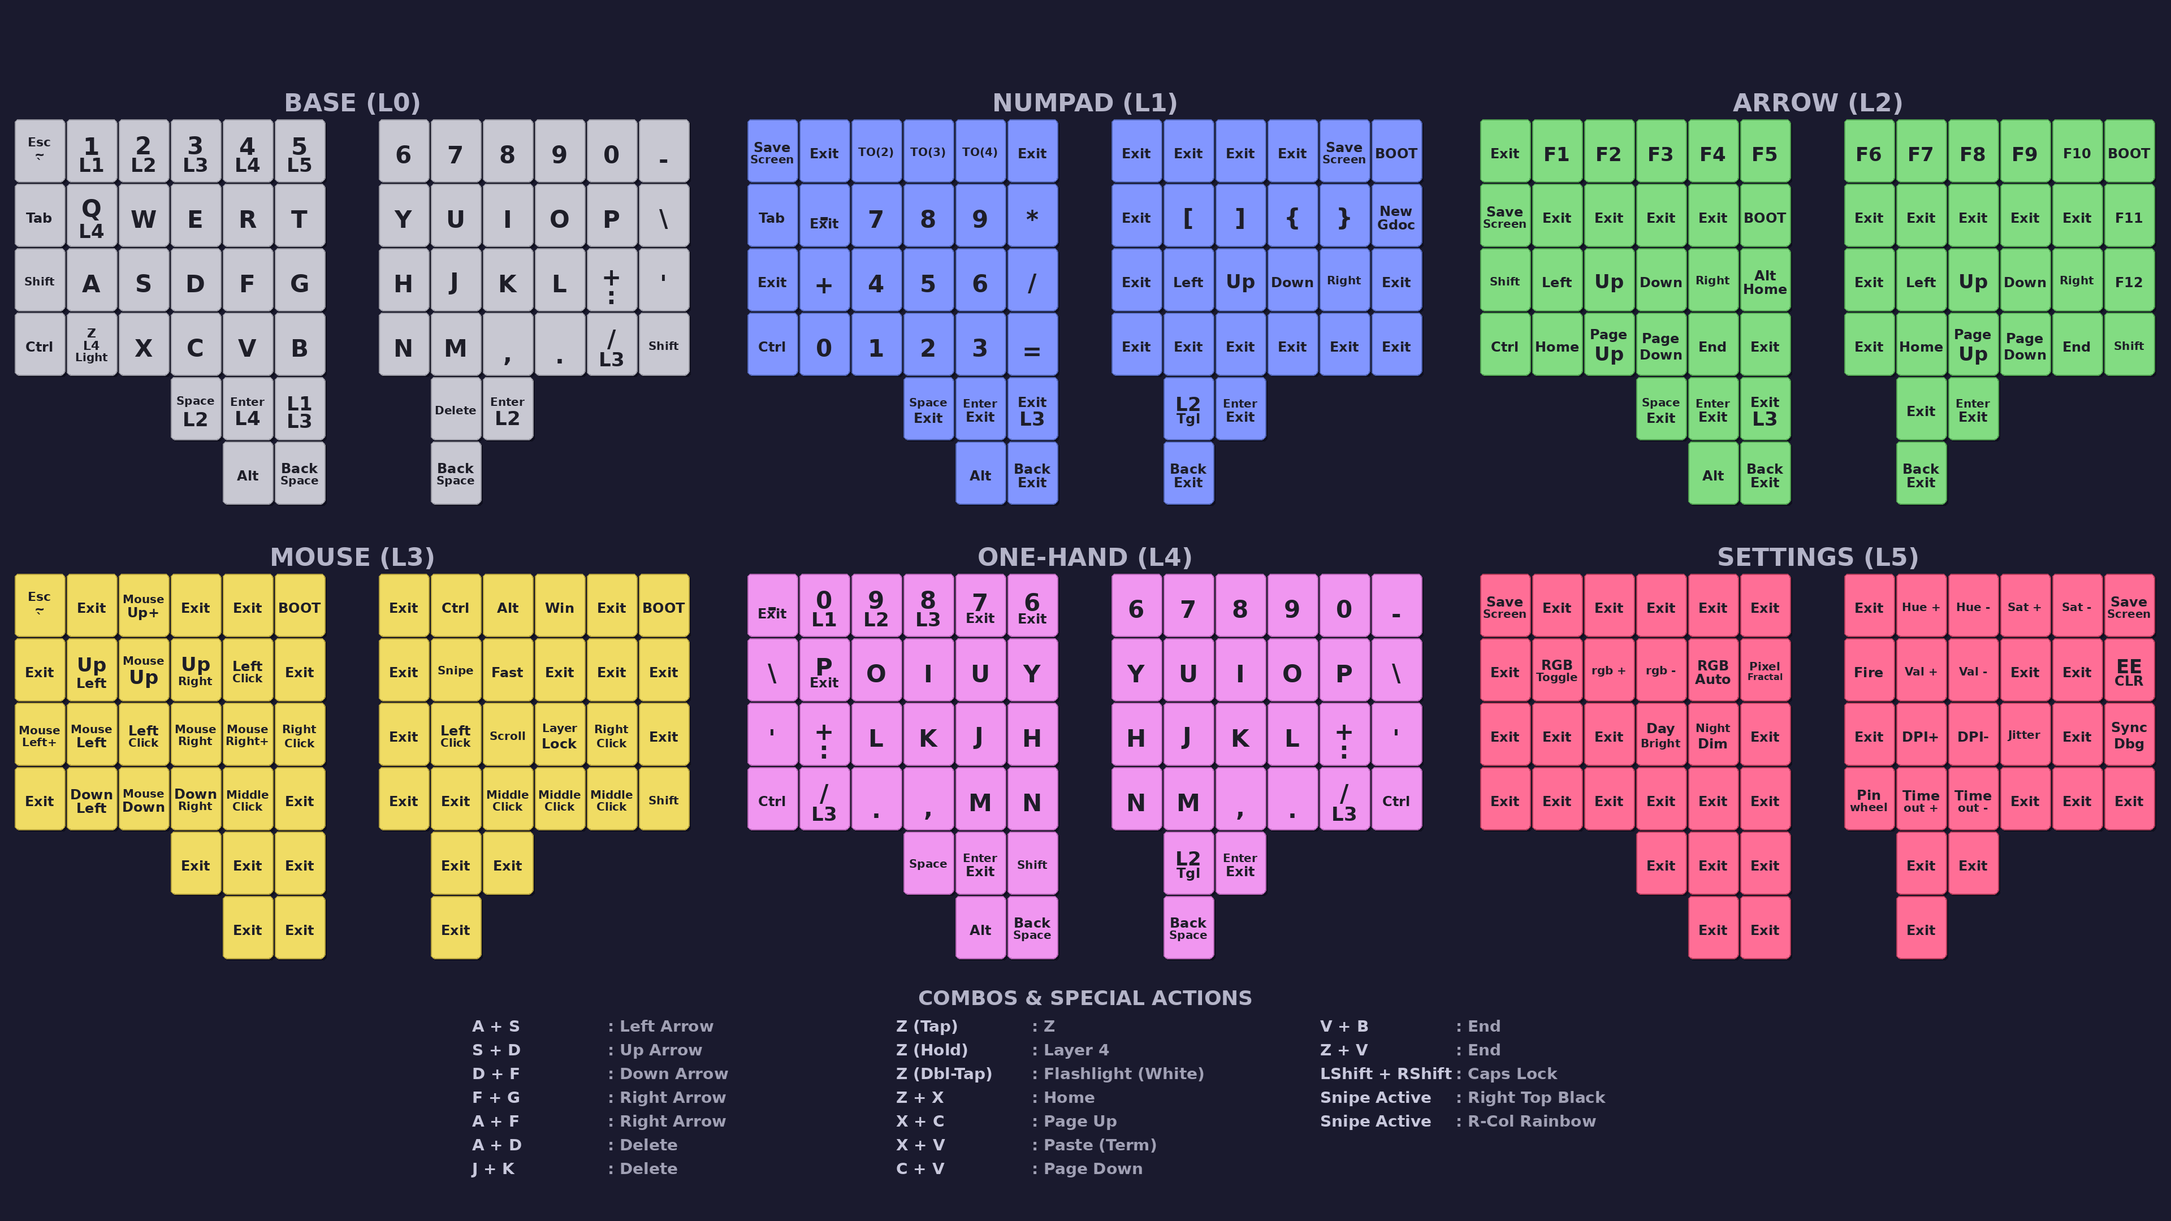
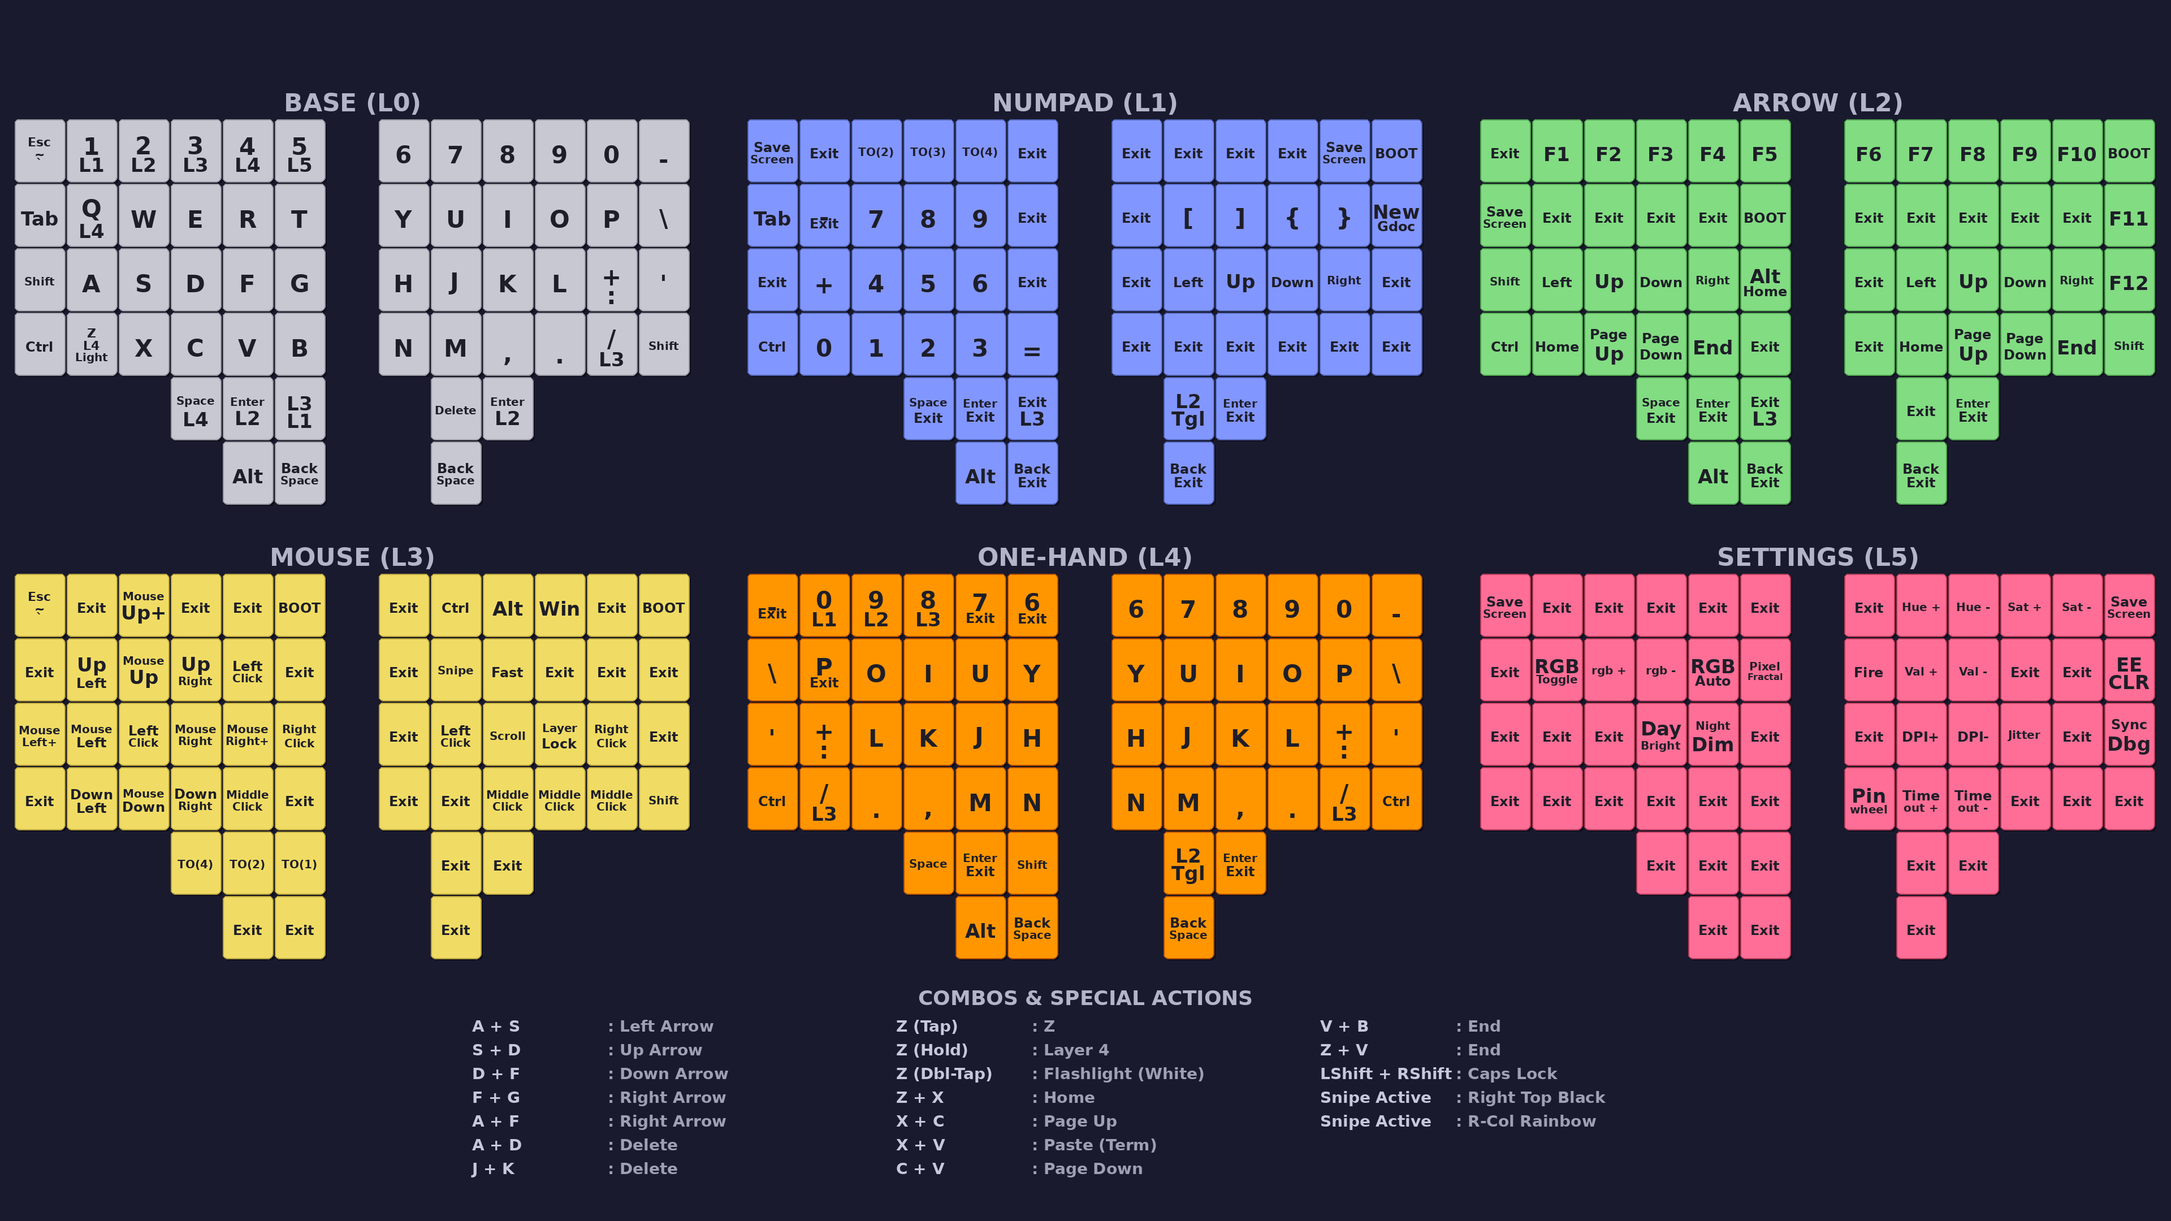
Update layout: swap L0 thumbs (Space/L4, Enter/L2), toggle L1/L3 logic, tune mouse accel

diff --git a/keymap/keymap.c b/keymap/keymap.c
@@ -78,6 +78,7 @@ enum custom_keycodes {
   KC_ENT_TG2,
   KC_ENT_TG4,
   KC_SPC_TG2,
+  KC_SPC_TG4,
   KC_PMNS_TG4,
   KC_MINS_TG4,
   KC_F12_EXIT,
@@ -592,6 +593,9 @@ static bool ent_tg2_triggered = false;
 static uint16_t spc_tg2_timer = 0;
 static bool spc_tg2_held = false;
 static bool spc_tg2_triggered = false;
+static uint16_t spc_tg4_timer = 0;
+static bool spc_tg4_held = false;
+static bool spc_tg4_triggered = false;
 static uint16_t pmns_tg4_timer = 0;
 static bool pmns_tg4_held = false;
 static bool pmns_tg4_triggered = false;
@@ -788,7 +792,7 @@ bool process_record_user(uint16_t keycode, keyrecord_t *record) {
     return false;
   case KC_MS_FAST_UP:
     if (record->event.pressed) {
-      if (!is_sniping_active) tap_code(MS_ACL2); // Speed up only if not sniping
+      if (!is_sniping_active) tap_code(MS_ACL1); // Speed up only if not sniping
       register_code(MS_UP);
     } else {
       unregister_code(MS_UP);
@@ -797,7 +801,7 @@ bool process_record_user(uint16_t keycode, keyrecord_t *record) {
     return false;
   case KC_MS_FAST_DOWN:
     if (record->event.pressed) {
-      if (!is_sniping_active) tap_code(MS_ACL2);
+      if (!is_sniping_active) tap_code(MS_ACL1);
       register_code(MS_DOWN);
     } else {
       unregister_code(MS_DOWN);
@@ -806,7 +810,7 @@ bool process_record_user(uint16_t keycode, keyrecord_t *record) {
     return false;
   case KC_MS_FAST_LEFT:
     if (record->event.pressed) {
-      if (!is_sniping_active) tap_code(MS_ACL2);
+      if (!is_sniping_active) tap_code(MS_ACL1);
       register_code(MS_LEFT);
     } else {
       unregister_code(MS_LEFT);
@@ -815,7 +819,7 @@ bool process_record_user(uint16_t keycode, keyrecord_t *record) {
     return false;
   case KC_MS_FAST_RIGHT:
     if (record->event.pressed) {
-      if (!is_sniping_active) tap_code(MS_ACL2);
+      if (!is_sniping_active) tap_code(MS_ACL1);
       register_code(MS_RGHT);
     } else {
       unregister_code(MS_RGHT);
@@ -947,14 +951,17 @@ bool process_record_user(uint16_t keycode, keyrecord_t *record) {
       l1_tap_timer = timer_read();
     } else {
       l1_held = false;
-      // If released quickly (Tap) -> Toggle L1
+      // If released quickly (Tap) -> Toggle L3 (Mouse)
       if (!l1_triggered) {
-        if (get_highest_layer(layer_state) > 0) {
+        if (get_highest_layer(layer_state) == 3) {
+          layer_change_reason = "L_TG1 (Tap): Toggle L3 (OFF)";
+          layer_off(3);
+        } else if (get_highest_layer(layer_state) > 0) {
           layer_change_reason = "L_TG1 (Tap): L0 (Reset)";
           layer_move(0);
         } else {
-          layer_change_reason = "L_TG1 (Tap): Toggle L1 (Numpad)";
-          layer_invert(1);
+          layer_change_reason = "L_TG1 (Tap): Toggle L3 (Mouse)";
+          layer_on(3);
         }
       }
       rgb_matrix_indicators_user();
@@ -1387,6 +1394,30 @@ bool process_record_user(uint16_t keycode, keyrecord_t *record) {
       }
     }
     return false;
+  case KC_SPC_TG4:
+    if (record->event.pressed) {
+      uint32_t now = timer_read32();
+      uint32_t sec = now / 1000;
+      uint32_t ms = now % 1000;
+      uprintf("[%lu.%03lu] KC_SPC_TG4 Pressed\n", sec, ms);
+      spc_tg4_held = true;
+      spc_tg4_triggered = false;
+      spc_tg4_timer = timer_read();
+    } else {
+      uint32_t now = timer_read32();
+      uint32_t sec = now / 1000;
+      uint32_t ms = now % 1000;
+      uprintf("[%lu.%03lu] KC_SPC_TG4 Released. Duration: %u ms. Held: %d, "
+              "Triggered: %d. Action: %s\n",
+              sec, ms, timer_elapsed(spc_tg4_timer), spc_tg4_held,
+              spc_tg4_triggered,
+              (!spc_tg4_triggered) ? "Tap (Space)" : "None (Handled by Timer)");
+      spc_tg4_held = false;
+      if (!spc_tg4_triggered) {
+        tap_code(KC_SPC);
+      }
+    }
+    return false;
   case KC_PMNS_TG4:
     if (record->event.pressed) {
       pmns_tg4_held = true;
@@ -1557,19 +1588,18 @@ void post_process_record_user(uint16_t keycode, keyrecord_t *record) {
 
 const uint16_t PROGMEM keymaps[][MATRIX_ROWS][MATRIX_COLS] = {
     [0] =
-        LAYOUT(QK_GESC, KC_1_TG1, KC_2_TG2, KC_3_TG3, KC_4_TG4, KC_5_TG5, KC_6, KC_7, KC_8, KC_9, KC_0, KC_MINS,
-               KC_TAB, KC_Q_TG4, KC_W, KC_E, KC_R, KC_T, KC_Y, KC_U, KC_I, KC_O, KC_P, KC_BSLS,
-               KC_LSFT, KC_A, KC_S, KC_D, KC_F, KC_G, KC_H, KC_J, KC_K, KC_L, KC_PLUS_COLON, KC_QUOT,
-               KC_LCTL, TD(TD_Z_LAYER), KC_X, KC_C, KC_V, KC_B, KC_N, KC_M, KC_COMM, KC_DOT, LT(3, KC_SLSH), KC_RSFT,
-               KC_SPC_TG2, KC_ENT_TG4, KC_L_TG1, KC_DEL, KC_ENT_TG2,
-               KC_LALT, KC_BSPC, KC_BSPC),
-               //QK_BOOT, KC_PSCR  , KC_SET_LEFT, KC_SET_RIGHT, KC_EXIT, KC_EXIT, KC_SET_LEFT, KC_SET_RIGHT, KC_EXIT, KC_EXIT   , KC_PSCR   , QK_BOOT,
+        LAYOUT(QK_GESC, KC_1_TG1, KC_2_TG2, KC_3_TG3, KC_4_TG4, KC_5_TG5,   KC_6, KC_7, KC_8, KC_9, KC_0, KC_MINS,
+               KC_TAB , KC_Q_TG4, KC_W    , KC_E    , KC_R    , KC_T    ,   KC_Y, KC_U, KC_I, KC_O, KC_P, KC_BSLS,
+               KC_LSFT, KC_A    , KC_S    , KC_D    , KC_F    , KC_G    ,   KC_H, KC_J, KC_K, KC_L, KC_PLUS_COLON, KC_QUOT,
+               KC_LCTL, TD(TD_Z_LAYER), KC_X, KC_C  , KC_V    , KC_B    ,   KC_N, KC_M, KC_COMM, KC_DOT, LT(3, KC_SLSH), KC_RSFT,
+                                        KC_SPC_TG4, KC_ENT_TG2, KC_L_TG1,   KC_DEL, KC_ENT_TG2,
+                                                        KC_LALT, KC_BSPC,   KC_BSPC),
     [1] = LAYOUT(KC_PSCR, KC_EXIT    , TO(2), TO(3), TO(4), KC_EXIT,   KC_EXIT, KC_EXIT, KC_EXIT, KC_EXIT   , KC_PSCR   , QK_BOOT,
-                 KC_TAB , KC_MINS_TO0, KC_7 , KC_8 , KC_9 , S(KC_8),   KC_EXIT  , KC_LBRC  , KC_RBRC  , S(KC_LBRC), S(KC_RBRC), HYPR(KC_N),
-                 KC_EXIT, S(KC_EQL)  , KC_4 , KC_5 , KC_6 , KC_SLSH,   KC_EXIT  , KC_LEFT  , KC_UP    , KC_DOWN   , KC_RGHT   , KC_EXIT,
-                 KC_LCTL, KC_0       , KC_1 , KC_2 , KC_3 , KC_EQL,    KC_EXIT  , KC_EXIT  , KC_EXIT  , KC_EXIT   , KC_EXIT   , KC_EXIT,
-                 KC_SPC_EXIT, KC_ENT_EXIT, KC_L_TG1, KC_R_TG2, KC_ENT_EXIT,
-                 KC_LALT, KC_BSPC_EXIT, KC_BSPC_EXIT),
+                 KC_TAB , KC_MINS_TO0, KC_7 , KC_8 , KC_9 , KC_EXIT,   KC_EXIT, KC_LBRC, KC_RBRC, S(KC_LBRC), S(KC_RBRC), HYPR(KC_N),
+                 KC_EXIT, S(KC_EQL)  , KC_4 , KC_5 , KC_6 , KC_EXIT,   KC_EXIT, KC_LEFT, KC_UP  , KC_DOWN   , KC_RGHT   , KC_EXIT,
+                 KC_LCTL, KC_0       , KC_1 , KC_2 , KC_3 , KC_EQL ,   KC_EXIT, KC_EXIT, KC_EXIT, KC_EXIT   , KC_EXIT   , KC_EXIT,
+                                 KC_SPC_EXIT, KC_ENT_EXIT, KC_L_TG1,   KC_R_TG2, KC_ENT_EXIT,
+                                              KC_LALT, KC_BSPC_EXIT,   KC_BSPC_EXIT),
     [2] = LAYOUT(KC_EXIT, KC_F1  , KC_F2  , KC_F3  , KC_F4  , KC_F5        ,   KC_F6      , KC_F7  , KC_F8  , KC_F9  , KC_F10 , QK_BOOT,
                  KC_PSCR, KC_EXIT, KC_EXIT, KC_EXIT, KC_EXIT, QK_BOOT      ,   KC_EXIT    , KC_EXIT, KC_EXIT, KC_EXIT, KC_EXIT, KC_F11,
                  KC_LSFT, KC_LEFT, KC_UP  , KC_DOWN, KC_RGHT, LALT(KC_HOME),   KC_EXIT    , KC_LEFT, KC_UP  , KC_DOWN, KC_RGHT, KC_F12,
@@ -1580,22 +1610,21 @@ const uint16_t PROGMEM keymaps[][MATRIX_ROWS][MATRIX_COLS] = {
                  KC_EXIT, KC_MS_DIAG_UL, MS_UP, KC_MS_DIAG_UR, MS_BTN1, KC_EXIT,   KC_EXIT, KC_SNIPE, KC_FAST, KC_EXIT, KC_EXIT, KC_EXIT,
                  KC_MS_FAST_LEFT, MS_LEFT, MS_BTN1 , MS_RGHT , KC_MS_FAST_RIGHT,   MS_BTN2, KC_EXIT , MS_BTN1, DRGSCRL, KC_MOUSE_LOCK, MS_BTN2, KC_EXIT,
                  KC_EXIT, KC_MS_DIAG_DL  , MS_DOWN , KC_MS_DIAG_DR, MS_BTN3    ,   KC_EXIT, KC_EXIT , KC_EXIT, MS_BTN3, MS_BTN3, MS_BTN3, KC_RSFT,
-                                          KC_EXIT, KC_EXIT, KC_EXIT,   KC_EXIT, KC_EXIT,
+                                                            TO(4), TO(2), TO(1),   KC_EXIT, KC_EXIT,
                                                                KC_EXIT, KC_EXIT,   KC_EXIT),
-    [4] = LAYOUT(KC_MINS_TO0, KC_0_TG1, KC_9_TG2, KC_8_TG3  , KC_7_TO0, KC_6_TO0,   KC_6, KC_7, KC_8, KC_9, KC_0, KC_MINS,
-                 KC_BSLS    , KC_P_TO0, KC_O    , KC_I      , KC_U    , KC_Y    ,   KC_Y, KC_U, KC_I, KC_O, KC_P, KC_BSLS,
-                 KC_QUOT, KC_PLUS_COLON, KC_L   , KC_K      , KC_J    , KC_H    ,   KC_H, KC_J, KC_K, KC_L, KC_PLUS_COLON, KC_QUOT,
-                 KC_LCTL, LT(3, KC_SLSH), KC_DOT, KC_COMM   , KC_M    , KC_N    ,   KC_N, KC_M, KC_COMM, KC_DOT, LT(3, KC_SLSH), KC_RCTL,
-                                                    KC_SPC, KC_ENT_EXIT, KC_LSFT,   KC_R_TG2, KC_ENT_EXIT,
-                                                    KC_LALT, KC_BSPC,               KC_BSPC),
+    [4] = LAYOUT(KC_MINS_TO0, KC_0_TG1, KC_9_TG2, KC_8_TG3, KC_7_TO0, KC_6_TO0,   KC_6, KC_7, KC_8, KC_9, KC_0, KC_MINS,
+                 KC_BSLS    , KC_P_TO0, KC_O    , KC_I    , KC_U    , KC_Y    ,   KC_Y, KC_U, KC_I, KC_O, KC_P, KC_BSLS,
+                 KC_QUOT, KC_PLUS_COLON, KC_L   , KC_K    , KC_J    , KC_H    ,   KC_H, KC_J, KC_K, KC_L, KC_PLUS_COLON, KC_QUOT,
+                 KC_LCTL, LT(3, KC_SLSH), KC_DOT, KC_COMM , KC_M    , KC_N    ,   KC_N, KC_M, KC_COMM, KC_DOT, LT(3, KC_SLSH), KC_RCTL,
+                                                  KC_SPC, KC_ENT_EXIT, KC_LSFT,   KC_R_TG2, KC_ENT_EXIT,
+                                                              KC_LALT, KC_BSPC,   KC_BSPC),
     // Settings Layer - RGB and Mouse configuration (accessed via Hold '5')
     [5] = LAYOUT(KC_PSCR, KC_EXIT, KC_EXIT, KC_EXIT, KC_EXIT    , KC_EXIT  ,   KC_EXIT, RM_HUEU, RM_HUED, RM_SATU , RM_SATD  , KC_PSCR,
                  KC_EXIT, RM_TOGG, RM_NEXT, RM_PREV, KC_RGB_AUTO, KC_P_FRAC,   KC_FIRE, RM_VALU, RM_VALD, KC_EXIT , KC_EXIT  , QK_CLEAR_EEPROM,
                  KC_EXIT, KC_EXIT, KC_EXIT, KC_DAY, KC_NIGHT    , KC_EXIT  ,   KC_EXIT, DPI_MOD, DPI_RMOD, KC_JITTER, KC_EXIT, KC_DEBUG_SYNC,
                  KC_EXIT, KC_EXIT, KC_EXIT, KC_EXIT, KC_EXIT    , KC_EXIT  ,   KC_PINWHEEL, KC_MS_TMO_INC, KC_MS_TMO_DEC, KC_EXIT, KC_EXIT, KC_EXIT,
-                 KC_EXIT, KC_EXIT, KC_EXIT,
-                 KC_EXIT, KC_EXIT,
-                 KC_EXIT, KC_EXIT, KC_EXIT),
+                                                  KC_EXIT, KC_EXIT, KC_EXIT,   KC_EXIT, KC_EXIT,
+                                                           KC_EXIT, KC_EXIT,   KC_EXIT),
 };
 
 bool rgb_matrix_indicators_user(void) {
@@ -1721,13 +1750,13 @@ bool rgb_matrix_indicators_user(void) {
     break;
   }
   case 4: {
-    // Left Side (Pink)
+    // Left Side (Orange)
     if (is_keyboard_left()) {
       static const uint8_t left[] = {0,  7,  8,  15, 16, 20, 1,  6,  9, 14,
                                      17, 21, 2,  5,  10, 13, 18, 22, 3, 4,
                                      11, 12, 19, 23, 26, 27, 28, 25, 24};
       for (int i = 0; i < sizeof(left); i++)
-        rgb_matrix_set_color(left[i], 255, 0, 255);
+        rgb_matrix_set_color(left[i], 255, 127, 0);
     }
     break;
   }
@@ -2115,12 +2144,12 @@ void matrix_scan_user(void) {
     rgb_matrix_indicators_user();
   }
   if (l1_held && !l1_triggered && timer_elapsed(l1_tap_timer) > MY_TAPPING_TERM) {
-    if (get_highest_layer(layer_state) == 3) {
-       layer_change_reason = "L_TG1(Hold): Toggle L3 (OFF)";
-       layer_off(3);
+    if (get_highest_layer(layer_state) == 1) {
+       layer_change_reason = "L_TG1(Hold): Toggle L1 (OFF)";
+       layer_invert(1);
     } else {
-       layer_change_reason = "L_TG1(Hold): Toggle L3 (ON)";
-       layer_on(3);
+       layer_change_reason = "L_TG1(Hold): Toggle L1 (ON)";
+       layer_invert(1);
     }
     l1_triggered = true;
     rgb_matrix_indicators_user();
@@ -2276,6 +2305,19 @@ void matrix_scan_user(void) {
       layer_move(2);
     }
     spc_tg2_triggered = true;
+    rgb_matrix_indicators_user();
+  }
+  if (spc_tg4_held && !spc_tg4_triggered &&
+      timer_elapsed(spc_tg4_timer) > MY_TAPPING_TERM) {
+    uprintf(">> Thumb Hold Triggered: SPC_TG4 -> Toggle Layer 4\n");
+    if (get_highest_layer(layer_state) == 4) {
+      layer_change_reason = "SPC(Hold): Toggle L4 (OFF)";
+      layer_move(0);
+    } else {
+      layer_change_reason = "SPC(Hold): Toggle L4 (ON)";
+      layer_move(4);
+    }
+    spc_tg4_triggered = true;
     rgb_matrix_indicators_user();
   }
   if (f12_held && !f12_triggered &&

diff --git a/generate_layout_pdf.py b/generate_layout_pdf.py
@@ -20,8 +20,8 @@ LAYER_COLORS = {
     1: (0.7, 0.7, 1.0),      # Blue (Numpad)
     2: (0.7, 1.0, 0.7),      # Green (Arrow)
     3: (1.0, 1.0, 0.7),      # Yellow (Mouse)
-    4: (1.0, 0.7, 1.0),      # Pink (One-Hand)
-    5: (0.7, 1.0, 1.0),      # Cyan (Settings)
+    4: (1.0, 0.5, 0.0),      # Orange (One-Hand)
+    5: (1.0, 0.43, 0.59),    # Hot Pink (Settings)
 }
 
 LAYER_NAMES = {
@@ -315,7 +315,7 @@ def simplify_key(key_code, layer_num=None):
         'KC_X_TG2': 'X\nTG2',
         'KC_V_TG5': 'V\nTG5',
         'KC_Q_TG4': 'Q\nL4',
-        'KC_L_TG1': 'L1\nL3',
+        'KC_L_TG1': 'L3\nL1',
         'KC_R_TG2': 'L2\nTgl',
         'KC_ENT_MO4': 'Enter\nL4',
         'KC_ENT_EXIT': 'Enter\nExit',
@@ -367,6 +367,7 @@ def simplify_key(key_code, layer_num=None):
         'KC_7_TO0': '7\nExit',
         'KC_6_TO0': '6\nExit',
         'KC_SPC_TG2': 'Space\nL2',
+        'KC_SPC_TG4': 'Space\nL4',
         'KC_ENT_TG2': 'Enter\nL2',
         'KC_ENT_TG4': 'Enter\nL4',
         'KC_PMNS_TG4': 'Num -\nL4',
@@ -426,7 +427,7 @@ def draw_key(c, x, y, width, height, label, bg_color):
         l = len(line)
         if l <= 1:
             font_size = 16
-        elif l <= 2:
+        elif l <= 3:
             font_size = 14
         elif l <= 4:
             font_size = 10

diff --git a/wallpaper.py b/wallpaper.py
@@ -23,7 +23,7 @@ LAYER_COLORS = {
     1: (130, 150, 255),    # Blue (Numpad)
     2: (130, 220, 130),    # Green (Arrow)
     3: (240, 220, 100),    # Yellow (Mouse)
-    4: (240, 150, 240),    # Pink (One-Hand)
+    4: (255, 150, 0),      # Orange (One-Hand)
     5: (255, 110, 150),    # Hot Pink (Settings)
 }
 
@@ -33,7 +33,7 @@ KEY_BORDER_COLORS = {
     1: (80, 100, 180),
     2: (80, 160, 80),
     3: (180, 160, 60),
-    4: (180, 100, 180),
+    4: (180, 80, 0),
     5: (180, 60, 90),
 }
 
@@ -108,7 +108,7 @@ def draw_key(draw, x, y, width, height, label, bg_color, border_color):
         l = len(line)
         if l <= 1:
             font_size = 42
-        elif l <= 2:
+        elif l <= 3:
             font_size = 34
         elif l <= 4:
             font_size = 24

diff --git a/keymap/config.h b/keymap/config.h
@@ -13,7 +13,7 @@
 #define MOUSEKEY_DELAY 0
 #define MOUSEKEY_INTERVAL 16
 #define MOUSEKEY_MAX_SPEED 12
-#define MOUSEKEY_TIME_TO_MAX 40
+#define MOUSEKEY_TIME_TO_MAX 60
 #define MOUSEKEY_WHEEL_DELAY 0
 
 /* Auto Mouse Configuration */

diff --git a/layout.md b/layout.md
@@ -35,10 +35,10 @@ Ctrl      Home      PgUp      PgDn      End       Exit     |  Exit      Home    
 ### MOUSE (Layer 3)
 ```
 Esc       Exit      FastUp    Exit      Exit      Boot     |  Exit      RCtl      RAlt      RGui      Exit      Boot
-Exit      DiagUL    MsUp      DiagUR    Btn1      Exit     |  Exit      Exit      Snipe     Exit      Exit      Exit
+Exit      DiagUL    MsUp      DiagUR    Btn1      Exit     |  Exit      Exit      Snipe     Fast      Exit      Exit
 FastL     MsL       Btn1      MsR       FastR     Btn2     |  Exit      Btn1      DragScr   MsLock    Btn2      Exit
 Exit      DiagDL    MsDn      DiagDR    Btn3      Exit     |  Exit      Exit      Btn3      Btn3      Btn3      Shift
-                    Btn1      Btn2      Btn3               |  Exit      Btn1      Exit
+                    To L2     To L4     L1(Tog)            |  Exit      Exit      Exit
 ```
 *Note: This layer activates automatically on trackball movement.*
 
@@ -53,10 +53,10 @@ Shift     /(L3)     .         ,         M         N        |  N         M       
 
 ### SETTINGS (Layer 5)
 ```
-PScr      Exit      Exit      Exit      Exit      Exit     |  Exit      Exit      Exit      Exit      Exit      PScr
-Exit      RGB_Tog   RGB_Nxt   RGB_Prv   AutoRGB   P.Frac   |  Fire      DPI+      DPI-      Snipe     Exit      ClrEE
-Exit      Val+      Val-      Sat+      Sat-      Exit     |  Exit      Time+     Time-     Jitter    Exit      SyncDbg
-Exit      Hue+      Hue-      Exit      Exit      Pinwhl   |  Exit      Exit      Exit      Exit      Exit      Exit
+PScr      Exit      Exit      Exit      Exit      Exit     |  Exit      Hue+      Hue-      Sat+      Sat-      PScr
+Exit      RGB_Tog   RGB_Nxt   RGB_Prv   AutoRGB   P.Frac   |  Fire      Val+      Val-      Exit      Exit      ClrEE
+Exit      Exit      Exit      Day       Night     Exit     |  Exit      DPI+      DPI-      Jitter    Exit      SyncDbg
+Exit      Exit      Exit      Exit      Exit      Exit     |  Pinwhl    Time+     Time-     Exit      Exit      Exit
                     Exit      Exit      Exit               |  Exit      Exit      Exit
 ```
 *Note: Access via **Hold '5'**. Contains all RGB and mouse configuration settings.*
@@ -99,10 +99,11 @@ Simultaneous key presses for navigation and editing.
 
 ### 4. Settings Layer (Hold '5')
 All configuration settings are now on the Settings layer for easy access:
-- **RGB Controls:** Toggle, Next/Prev mode, Hue+/-, Saturation+/-, Value+/-, AutoRGB
+- **RGB Controls:** Toggle, Next/Prev mode, Hue+/- , Saturation+/-, Value+/-, AutoRGB
 - **RGB Animations:** Direct access to Fire, Pixel Fractal, and Pinwheel effects
 - **DPI Adjustment:** Press `DPI+`/`DPI-` to adjust mouse sensitivity.
 - **Snipe Mode:** Press `Snipe` to toggle low DPI (250) for precision. Also available on Layer 3 at 'I' position.
 - **Timeout Adjustment:** Press `Time+`/`Time-` to adjust auto-mouse timeout in 500ms increments (range: 0.5s - 10s). Default is 2.0s.
 - **Jitter Filter:** Press `Jitter` to toggle the mouse jitter filter (useful for high-DPI stability).
 - **Debug/Maintenance:** `ClrEE` (Clear EEPROM), `SyncDbg` (Debug sync state), `PScr` (Print Screen).
+- **Brightness Presets:** `Day` (High Brightness) and `Night` (Low Brightness) on 'D' and 'F' keys.
